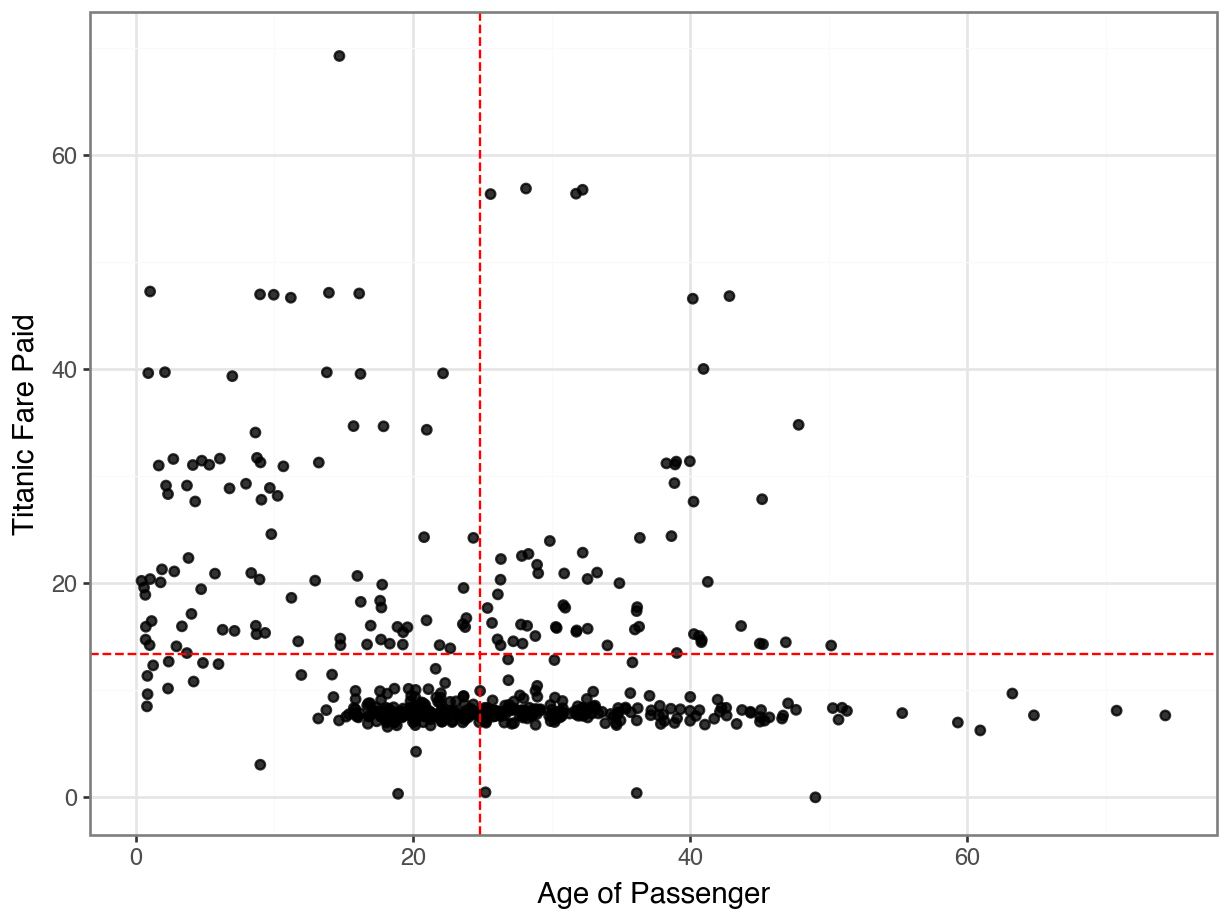
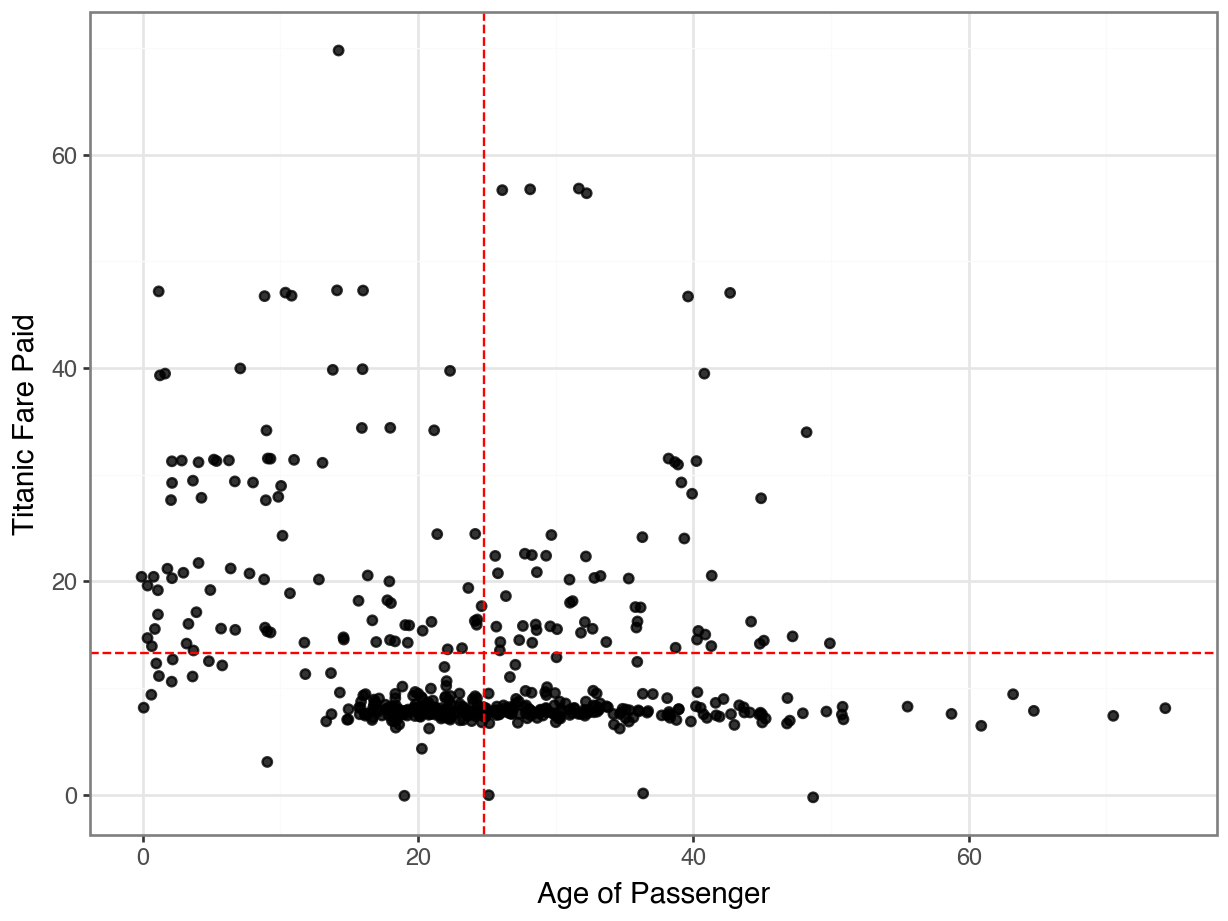
change jittering to point size

diff --git a/docs/slides/04-group-by.html b/docs/slides/04-group-by.html
@@ -1161,10 +1161,11 @@ Name: dep_delay, dtype: float64</code></pre>
 <section id="making-a-clearer-plot" class="slide level2">
 <h2>Making a Clearer Plot</h2>
 <p>Did you notice how difficult it was to pick out each point?</p>
+<!-- change to point size -->
 <div class="columns">
 <div class="column" style="width:48%;">
 <div class="fragment">
-<p><strong>Jittering</strong></p>
+<p><strong>Point Size</strong></p>
 <div class="small">
 <div class="cell">
 <details class="code-fold">
@@ -1173,7 +1174,7 @@ Name: dep_delay, dtype: float64</code></pre>
 <span id="cb40-2"><a aria-hidden="true" tabindex="-1"></a>  ggplot(data <span class="op">=</span> df_titanic, </span>
 <span id="cb40-3"><a aria-hidden="true" tabindex="-1"></a>         mapping <span class="op">=</span> aes(x <span class="op">=</span> <span class="st">'age'</span>, y <span class="op">=</span> <span class="st">'fare'</span>)</span>
 <span id="cb40-4"><a aria-hidden="true" tabindex="-1"></a>         ) <span class="op">+</span> </span>
-<span id="cb40-5"><a aria-hidden="true" tabindex="-1"></a>  geom_jitter() <span class="op">+</span></span>
+<span id="cb40-5"><a aria-hidden="true" tabindex="-1"></a>  geom_jitter(size <span class="op">=</span> <span class="fl">0.5</span>) <span class="op">+</span></span>
 <span id="cb40-6"><a aria-hidden="true" tabindex="-1"></a>  labs(x <span class="op">=</span> <span class="st">"Age of Passenger"</span>, </span>
 <span id="cb40-7"><a aria-hidden="true" tabindex="-1"></a>       y <span class="op">=</span> <span class="st">"Fare Paid on Titanic"</span>)</span>
 <span id="cb40-8"><a aria-hidden="true" tabindex="-1"></a>)</span></code><button title="Copy to Clipboard" class="code-copy-button"><i class="bi"></i></button></pre></div>
